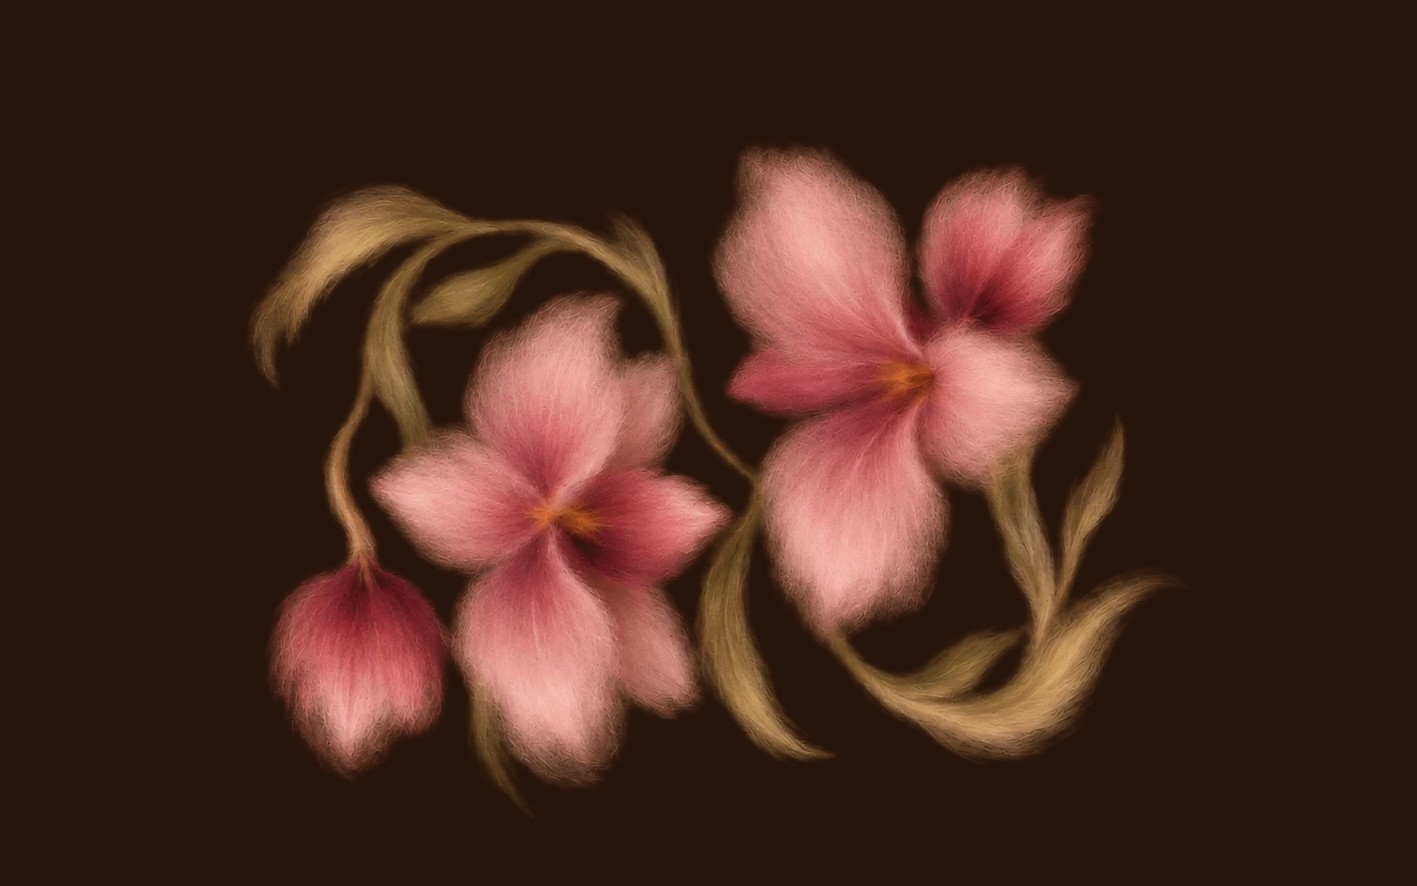
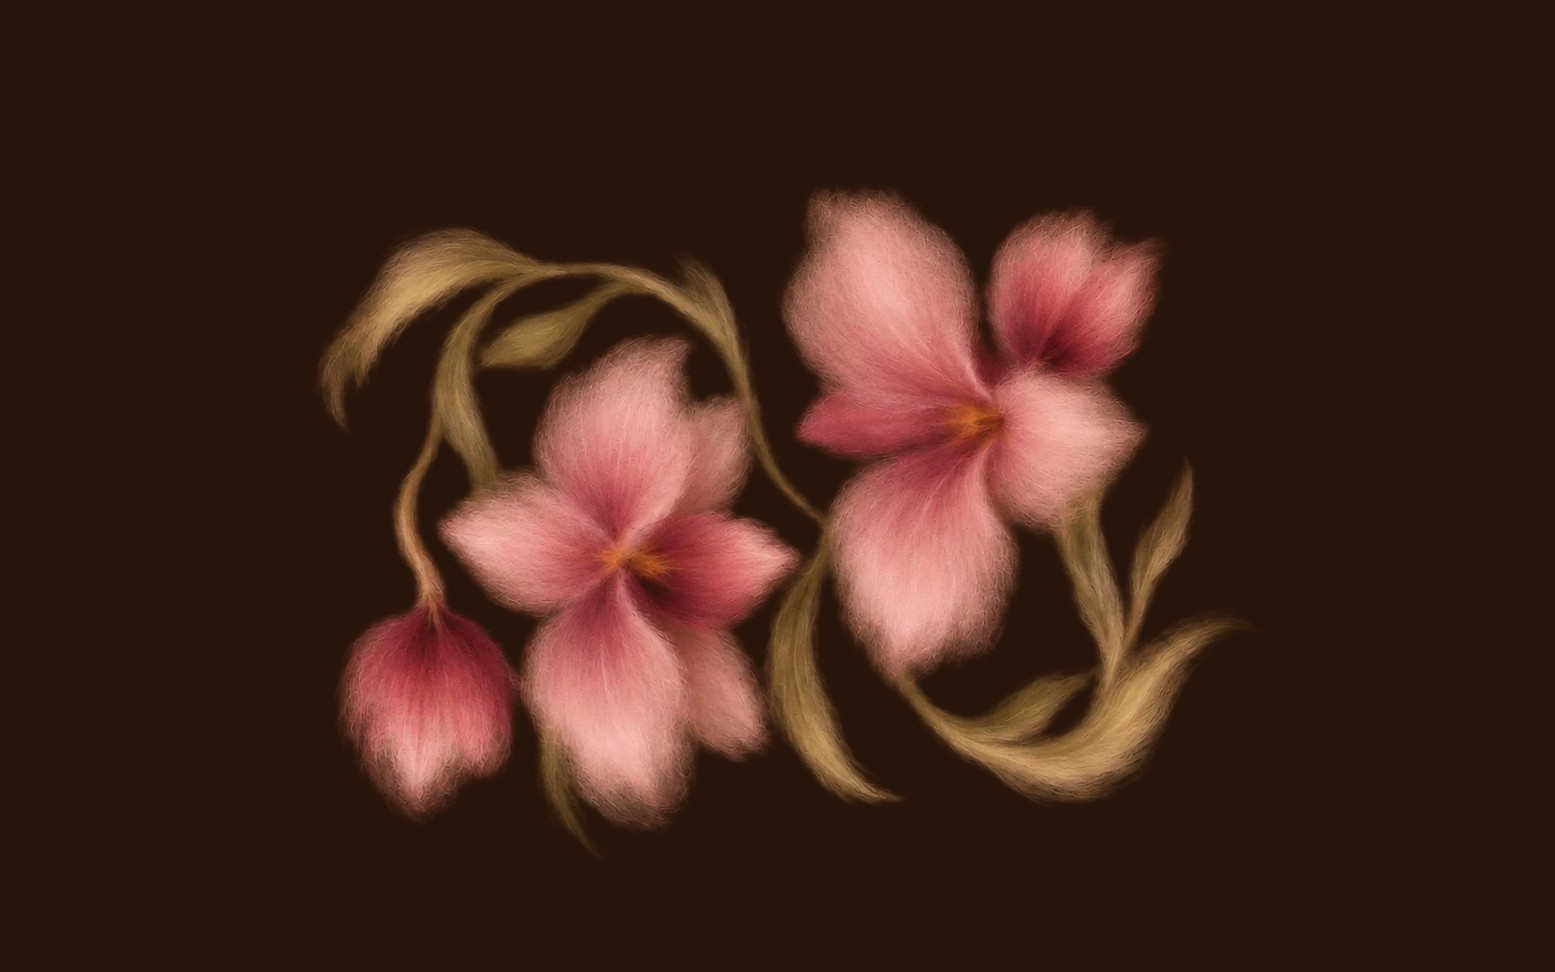
style: las flores de portada un pelin mas pequenas en el ordenador

Changed region(s): [[0.1553, 0.1524, 0.8384, 0.8837], [0.4968, 0.4266, 0.5279, 0.4571]]

diff --git a/index.html b/index.html
@@ -120,7 +120,7 @@
                  y giradas en horizontal en el ordenador, ocupando casi toda la pantalla. -->
             <picture>
               <source media="(max-width: 820px)" srcset="assets/images/hero-flores-movil.jpg?v=8" />
-              <img class="hero__photo" src="assets/images/hero-flores-ordenador.jpg?v=8" alt="" />
+              <img class="hero__photo" src="assets/images/hero-flores-ordenador.jpg?v=9" alt="" />
             </picture>
           </div>
           <div class="hero__copy">
